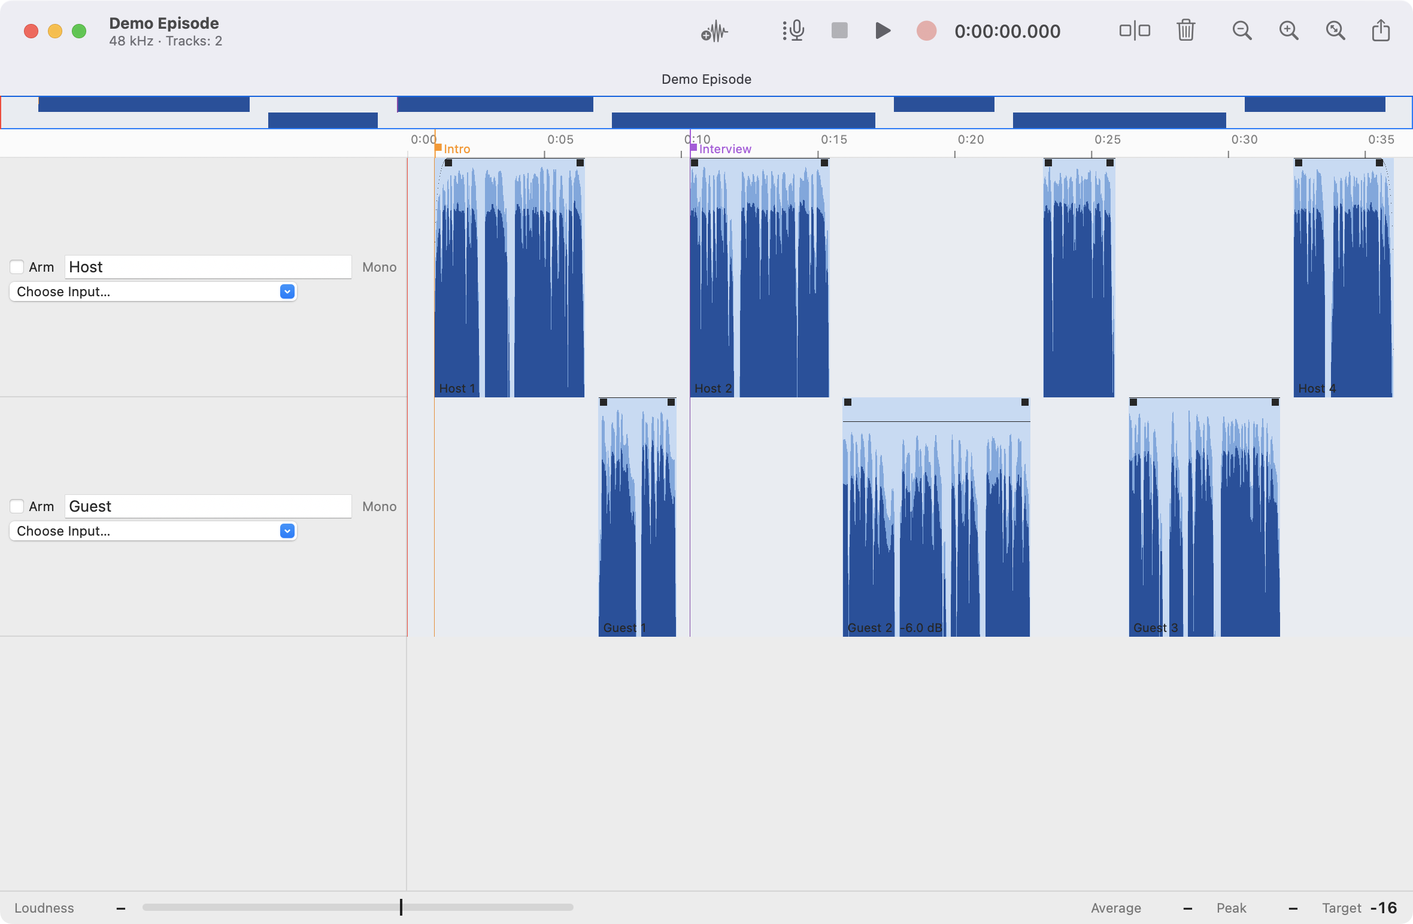
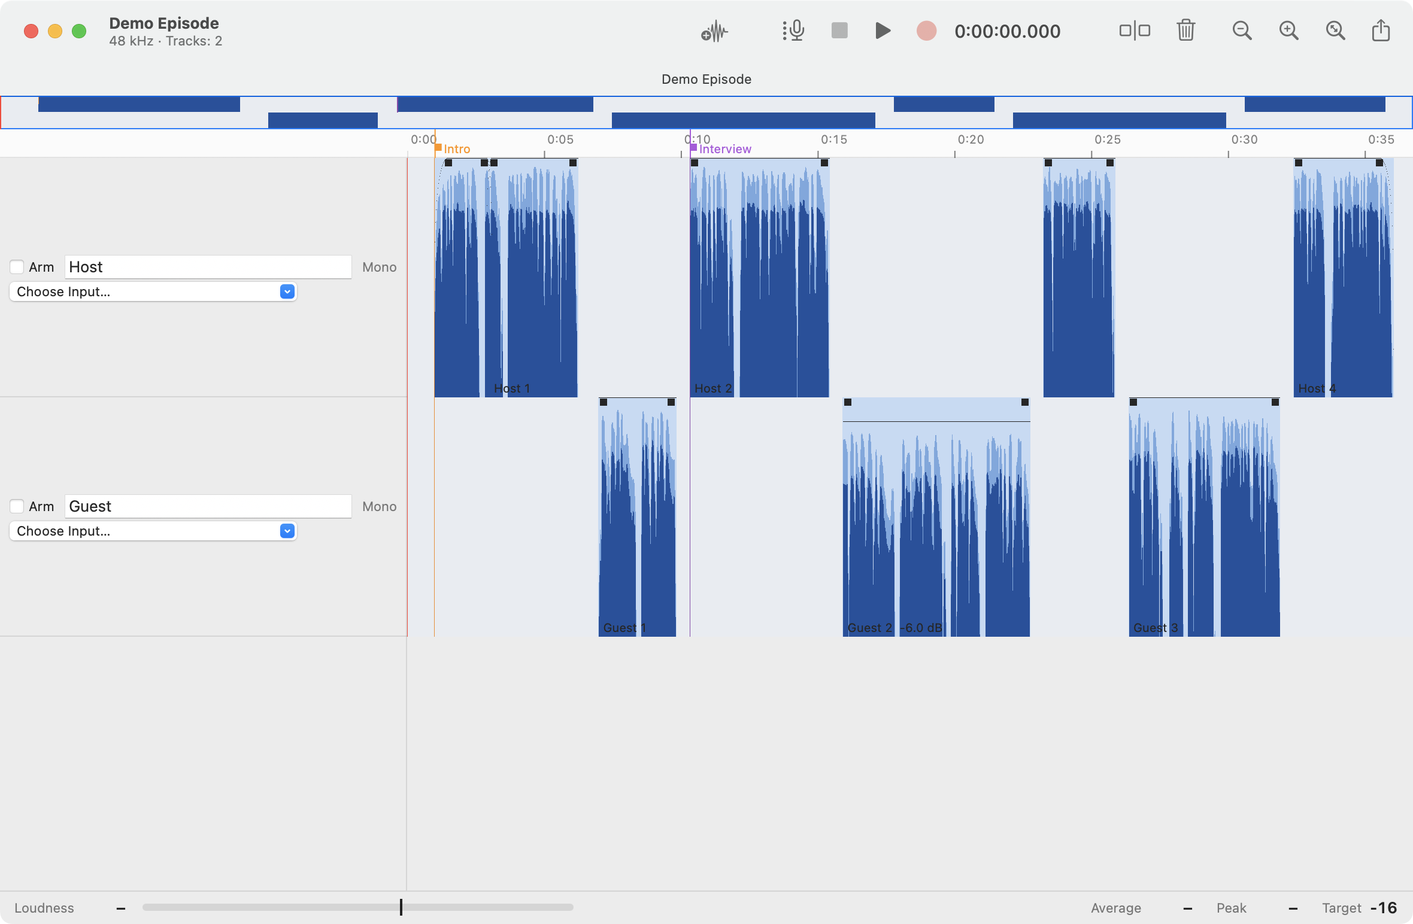
docs: describe crossfade editing and record what 11c-2 landed
The guide now tells how Command-F makes a crossfade at a join, how the
handles drag it, and how a double-click removes it. The README feature
list names the crossfade, and the "not yet" lines about crossfades go.

Decisions 0036, 0017, and 0020 say what 11c-2 landed: the drag is
relative to the press, the X lines draw in their own pass, and a join
takes only the room that the join before it leaves in a short clip.

The Demo Episode of screenshots.sh gets a cut in Host 1, closed with a
crossfade of 200 ms, and the script takes screenshot-crossfade.png at
the join. It zooms with the menu item, so the key layout does not
matter. The other three images are taken again.

Changed region(s): [[0.3403, 0.1554, 0.4331, 0.4352], [0.1547, 0.0933, 0.1856, 0.1244]]

diff --git a/docs/decisions/0036-crossfades.md b/docs/decisions/0036-crossfades.md
@@ -4,6 +4,7 @@
 - Date: 2026-10-04
 - Accepted: 2026-10-04, after plan gates 1 and 2 of run `2026-10-04-crossfades` (part 11c-1).
 - Amends: 0003 (crossfades from version 4), 0016 (the mix reads the sounding clip), 0017 (the waveform and the X line, 11c-2), 0020 (the crossfade handles, 11c-2; the fade handle stops at the room), 0024 (the `session.xml` version table), 0035 (the 11c plan, the fade stop rule).
+- Amended: 2026-10-04, run 11c-2 (`2026-10-04-crossfades-ui`): the handle drag is relative to the press, the X lines draw in their own pass, and a join takes only the room that the join before it leaves in a short clip.
 
 ## Context
 
@@ -21,7 +22,7 @@ Notation: clip A ends at the join J, and clip B starts at J. L is the crossfade 
   - a crossfade at a seamless join with `.crossfadeAtSeamlessJoin`;
   - a fade and a crossfade at one edge with `.fadeAtCrossfade`;
   - a short media handle with `.crossfadeOutsideFile(clip, needed: L/2)`.
-- **Media-handle limit.** `Session.check` refuses a clip with less than L/2 frames of file before its start crossfade (L/2 <= offset) or after its end crossfade (offset + length + L/2 <= file length), with `.crossfadeOutsideFile(clip, needed: L/2)`. It refuses a fade at an edge with a crossfade with `.fadeAtCrossfade`. There is no overlap and no ripple: `MixReader` cuts a short read with no error, which is an audible dip. `crossfadeLimit(after: A)` is 2 x min(handle after A, handle before B, room of A, room of B), rounded down to even. It is 0 at a seamless join, and nil when no clip touches the end of A or the file of A is not in the pool. Command-F and the handle drag of 11c-2 clamp to it.
+- **Media-handle limit.** `Session.check` refuses a clip with less than L/2 frames of file before its start crossfade (L/2 <= offset) or after its end crossfade (offset + length + L/2 <= file length), with `.crossfadeOutsideFile(clip, needed: L/2)`. It refuses a fade at an edge with a crossfade with `.fadeAtCrossfade`. There is no overlap and no ripple: `MixReader` cuts a short read with no error, which is an audible dip. `crossfadeLimit(after: index, in: lane)` is 2 x min(handle after A, handle before B, room of A, room of B), rounded down to even. It is 0 at a seamless join, and nil when no clip touches the end of A or the file of A is not in the pool. Command-F and the handle drag of 11c-2 clamp to it.
 - **Room.** The reach of an edge is its fade plus half its crossfade. `Clip.room(edge)` is the length minus the reach of the other edge, with no special case. `Session.check` refuses reach(start) + reach(end) over the length with `.fadeOutsideClip`. The fade handle, the inspector, and `Clip.fades(setting:to:)` clamp a fade to the room of its edge, and give no fade at an edge with a crossfade. A fade yields to a crossfade: `Clip.fitting` fits the fades into the length minus both crossfade halves. In `crossfadeLimit`, the room counts the crossfade half at the other edge and not its fade, because that fade yields.
 - **Set.** `Session.setCrossfades([ClipID: Frames])` takes the left clip of each join. L > 0 sets the crossfade on both clips, sets the fades at the two join edges to 0, and makes the fade at the other edge of each clip yield. L = 0 removes the crossfade from both clips and leaves the fades. A clip with no touching right neighbor throws `.crossfadeWithoutJoin`, also for L = 0. L > 0 at a seamless join throws `.crossfadeAtSeamlessJoin`. A length that `Crossfades` refuses throws `.frameOutOfRange`, and an unknown clip `.unknownClip`. It checks each changed clip, then writes all the changed clips of a lane before the repair reads their joins, so a crossfade of two clips is never half written. One pass and one undo entry; a throw changes nothing.
 - **Drop at a broken join.** An edit that breaks a join removes the crossfade from both clips. `ClipLane` keeps a crossfade only when its neighbor touches the edge, both lengths are equal, and the join is not seamless. `clear`, `split`, `overwrite`, and `remove(ids:)` end with a repair of the whole lane, because they cut or remove clips that can leave an orphan on a clip that the edit did not touch. `insert` repairs the joins next to each inserted clip, and `remove(at:)` repairs the join of its two new neighbors. This is complete because every mutator leaves the lane paired and every clip has a positive length. `replace(at: i)` repairs only the joins of clips i - 1 to i + 1: one clip changes and no clip moves, so `setFades`, `setGains`, and `setCrossfades` stay linear. A cut part (split, clear, overwrite, excerpt) keeps the crossfade of an edge of the clip that it keeps only when its half is not more than the room of that edge; the repair then drops the partner. A trim keeps the crossfade of each edge that does not move, and the fades yield to it. A paste, a move, and a nudge keep the crossfades; the repair drops each one whose join does not come with it. A move to the same track and start, and a nudge by 0, change nothing. `CrossfadeTests.randomEditsKeepTheSessionSavable` runs 500 seeded edit sequences, and each saved session reads back.
@@ -29,15 +30,14 @@ Notation: clip A ends at the join J, and clip B starts at J. L is the crossfade 
 - **CLI.** `dirigible clip crossfade <package> --clip <A> --length <frames>` calls `setCrossfades`; `--length 0` removes it. The parser refuses an odd or negative length with exit 64. `dirigible info` adds `crossfade in L` or `crossfade out L` to a clip line, and `info --json` gives `crossfadeIn` and `crossfadeOut` only when not 0. `crossfadeLimit` does not change a session, so it has no command.
 - **Errors.** The CLI gives each new case its own text. The window does not make an edit that throws one of the four cases, so the app shows the `errorSessionOther` text for each.
 - **Render.** `MixReader`, the one mix of the Player and the export, finds a clip by its sounding range and renders the sounding clip. A render from J + 1 includes the end of A. The media check of an export reads the files of the sounding clips too.
-- **11c-2, as planned: Command-F.** A range with in < J < out on a selected track makes a crossfade of L = 2 x min(J - in, out - J), centered on J, clamped to `crossfadeLimit`. A range that holds A and B whole (Select All) gives 20 ms (960 frames at 48 kHz), rounded to even. A range that only touches J keeps the 0035 rule (no fade at a butt join). A limit of 0 skips that join, and no change gives a beep. One Command-F sets the crossfades first, then the fades of 0035 fitted to the room, in one undo entry.
-- **11c-2, as planned: handles.** A crossfade shows two 8 x 8 pt handles, at J - L/2 in A and at J + L/2 in B. A drag of either handle sets L = 2 x the distance to J, clamped to `crossfadeLimit`; a drag to J removes it. A double-click on a handle removes it. The readout shows "Crossfade N ms". A join with no crossfade has no handle, so no drag makes a new crossfade. The drag is a new path of the 0020 budget, measured by its own bench.
-- **11c-2, as planned: draw.** The waveform of each clip takes its own half of the curve, so a 0 dBFS column at J is 3 dB under the top. The fade line of each clip continues over its handle into the neighbor box, in the controls pass after the waveforms, so the two lines cross at J as an X. The lane draw query and `changedFrames` use the sounding range. Until 11c-2 lands, the lanes do not draw a crossfade.
+- **11c-2: Command-F.** A range with in < J < out on a selected track makes a crossfade of L = 2 x min(J - in, out - J), centered on J, clamped to `crossfadeLimit`. A join also clamps to the room that the join before it leaves in the clip between them: the first join at a short clip takes the room, so the two new halves never pass the clip length. A range that holds A and B whole (Select All) gives 20 ms (960 frames at 48 kHz), rounded to even. A range that only touches J keeps the 0035 rule (no fade at a butt join). A limit of 0 skips that join, and no change gives a beep. One Command-F sets the crossfades first, then the fades of 0035 fitted to the room, in one undo entry.
+- **11c-2: handles.** A crossfade shows two 8 x 8 pt handles, at J - L/2 in A and at J + L/2 in B, kept inside each box. A drag is relative to the press: a drag away from J adds 2 x its frames, and a drag toward J takes them off, clamped to 0 and to `crossfadeLimit` at the press; a drag to J removes it. A double-click on a handle removes it. The readout shows "Crossfade N ms". A join with no crossfade has no handle, so no drag makes a new crossfade. The drag is a new path of the 0020 budget, measured by its own bench.
+- **11c-2: draw.** The waveform of each clip takes its own half of the curve inside its own box, so a 0 dBFS column at J is 3 dB under the top. The fade line of each clip continues over its handle into the neighbor box, in its own pass after the waveforms, in boxes of 12 pt or more, so the two lines cross at J as an X. That pass and `changedFrames` use the sounding range. The gain line and the gain band stop at the crossfade half, and a trim stops at half of the crossfade at the other edge.
 
 ## Consequences
 
 - A build that reads version 3 or lower refuses a session with a crossfade. A session with no crossfade keeps its version 1, 2, or 3 text.
 - A clip edit can remove a crossfade with no message. Undo restores it.
-- Until 11c-2 lands, only `dirigible clip crossfade` makes a crossfade, and the lanes do not show it.
 - An asymmetric crossfade, a moved pivot, or another curve needs a new attribute and a version bump.
 
 ## Alternatives considered

diff --git a/docs/decisions/0017-timeline-view.md b/docs/decisions/0017-timeline-view.md
@@ -14,7 +14,7 @@
 - Amended: 2026-09-28, timeline-navigation run (see 0025): H is "Zoom to Selection or Session": with no selection it zooms to the session, and a second H with the view unchanged goes back. The zoom history and the lane height are window state and are not saved. Command-= also zooms in. New View keys: Zoom Back and Zoom Forward (Option-Command-Left and -Right), Previous Page and Next Page (Option-Page Up and Option-Page Down), Taller Tracks and Shorter Tracks (Command-Down and Command-Up Arrow), and Fit Tracks to Window (no key).
 - Amended: 2026-09-29, record-over-gap run: the record-over overlay reads only the first clip of each armed track that ends after the playhead, not only a clip under the playhead. With the playhead in a gap, a take replaced a clip out of view with no warning.
 - Amended: 2026-10-03, run 11a. The waveform has the fades of 0035, and a fade line in clip boxes of 12 pt or more wide.
-- Amended: 2026-10-04, run 11c-1. Planned for 11c-2: the waveform takes the fades of the sounding clip, and the fade lines of a crossfade cross at the join as an X (see 0036). Until then the lanes do not draw a crossfade.
+- Amended: 2026-10-04, runs 11c-1 and 11c-2: the waveform takes the fades of the sounding clip inside its box, and the fade lines of a crossfade cross at the join as an X, drawn in their own pass after the waveforms (see 0036).
 
 ## Context
 
@@ -30,7 +30,7 @@ Probes on 2026-09-25 (MacBook Pro 2018, Intel i5-8259U, Iris Plus 655, macOS 15.
 
 **Drawing.** The lanes are an `NSScrollView` in the SwiftUI window. Its document view is flipped and layer-backed, as wide as the session at the zoom, and draws only its dirty rect. It writes BGRA pixels into a buffer (a background pattern, then column spans for the peak and the RMS), then draws one image over the buffer, with no copy. The context of the draw is a display list (macOS 15.7.9): it draws the image later, and again after a scroll. So the data provider of the image holds the buffer, and a draw uses a buffer again only when no image holds it. A reused buffer showed the pixels of a later draw after a page turn, and a buffer of another size was freed under its image. The layer keeps the image of each region until a later draw covers it or the region needs display again. A scroll marks the lanes more than one view away in a later job of the main queue: no draw, and their images go (4 live images or less after each of 8 page turns, `pageTurnsKeepAFewImagesAlive`). A mark next to the view made the layer draw all lanes in view. A partial draw (an edit or a drag event) also draws the partial draws before it, so it covers the image of the last one: a clip drag kept one image per event. When that union is more than a quarter of the lanes in view larger than the new rect, one full draw frees every image (4 live images or less over 60 drag events, `aClipDragKeepsAFewImagesAlive`). The playhead is a `CALayer` that the `NSView.displayLink` tick moves; the tick reads the playhead outside SwiftUI. The ruler is an `NSRulerView`. The track headers are SwiftUI rows in the vertical ruler of the scroll view, and they share the lane height. Lanes that do not fit the window scroll vertically. The top of the clip view places the headers, so each header stays beside its lane, and a wheel over the headers scrolls the lanes. The clip view goes under both rulers, so the lanes in view are the clip bounds minus its content insets. A page turn and a zoom keep the vertical origin. The document view and the ruler each keep an `Equatable` value of their drawn inputs (the session, the peaks, the missing media, the selection, the zoom, the lane height). They redraw only when that value changes or the backing scale changes. The playhead is not a drawn input. `Studio.missingMedia` is a stored property of its own, not a field of the playback state, so the 33 ms playhead poll does not update the view.
 
-**Waveform.** Rectified, -60 dB to 0 dB, light peaks over dark RMS, with clip gain plus track gain and the fades of 0035 (from 11c-2, of the sounding clip, 0036). A stereo track draws the maximum of both channels. A missing or short clip draws red. The red comes only from `Studio.missingMedia`.
+**Waveform.** Rectified, -60 dB to 0 dB, light peaks over dark RMS, with clip gain plus track gain and the fades of 0035 (of the sounding clip, 0036). A stereo track draws the maximum of both channels. A missing or short clip draws red. The red comes only from `Studio.missingMedia`.
 
 **Peaks.** Three levels of 256, 4096, and 65536 frames per bin, a UInt16 peak and a UInt16 RMS per bin. `Studio` computes them off the main actor, one file at a time, and pauses before each block of 262,144 frames while a take starts, records, or finalizes. After a pause, the file starts again with a new `stat`. The pass opens each WAV with `openMedia`, as the Player and the media check do, and merges its faults into `missingMedia`. `openMedia` also gives the stamp of the descriptor that it opened. A read error gives `.unreadable` in `missingMedia`. Studio starts a pass at the open, after a finalize, and after an edit, an undo, or a redo that changes the pool files. The window starts one at focus, because a WAV can change outside the app. The views read only `Studio.peaks`.
 

diff --git a/docs/guide.md b/docs/guide.md
@@ -13,7 +13,6 @@ This guide shows how to record, edit, and export a podcast episode with Dirigibl
 
 - The export does not write the chapters into the file. The chapters stay in the session.
 - Safari and FaceTime cannot be a track source: they play their audio from system processes outside the app.
-- The window cannot make or show a crossfade. Only the `dirigible` tool can make one: see [The dirigible tool](#the-dirigible-tool).
 - Delete leaves silence. The clips after the deleted part do not move to close the gap. To close the gap, see [Remove a mistake and close the gap](#remove-a-mistake-and-close-the-gap).
 
 ## Record your first episode
@@ -204,9 +203,14 @@ Choose **Edit > Fade** (Command-F) to fade the clips on the selected tracks. The
 - A selection that holds the start of a clip gives a fade-in from the clip start to the out point.
 - A selection that holds the end of a clip gives a fade-out from the in point to the clip end.
 - A selection inside a clip does nothing.
-- Where two clips touch, the edges get no fade.
+- Where two clips touch, the edges get no fade. A selection that starts before the join and ends after it gives a crossfade: the first clip fades out while the second clip fades in. The crossfade is centered on the join and is twice as long as the shorter part of the selection on each side of the join. When the selection holds both clips whole, the crossfade is 20 ms.
+- A selection that only ends or starts at the join gives no crossfade.
 
-A new fade replaces the old fade of that edge. When the two fades are longer than the clip, the other fade becomes shorter. The waveform shows the fade, and on a clip that is 12 pt wide or more on screen, a line marks the fade shape. With no fade to change, you hear a beep. Each Fade is one step in the undo history.
+![A crossfade of 200 ms at a join in the Host track: the fade lines of the two clips cross at the join as an X, with a handle at each end.](images/screenshot-crossfade.png)
+
+A crossfade needs audio in each file past the join, for half its length. Dirigible makes the crossfade as long as that audio and the clips allow. Where a short clip is between two joins, the first join gets the room in that clip. Two parts of a split clip that continue the same audio get no crossfade.
+
+A new fade replaces the old fade of that edge. When the two fades are longer than the clip, the other fade becomes shorter. The waveform shows the fade, and on a clip that is 12 pt wide or more on screen, a line marks the fade shape. The two lines of a crossfade cross at the join as an X. With no fade or crossfade to change, you hear a beep. Each Fade is one step in the undo history.
 
 ### Change the gain and the fades with the mouse
 
@@ -214,15 +218,16 @@ On a clip that is 40 pt wide or more on screen, a line shows the clip gain, and 
 
 - Drag the line up or down to change the gain of that clip, in steps of 0.1 dB. A drag goes to +20 dB or -20 dB, or stops at the start value when that value is outside these limits.
 - Drag a fade handle to make the fade longer or shorter. The handle stops at the other fade.
-- Double-click the line to set the gain to 0 dB. Double-click a handle to remove that fade.
-- During a drag, a label next to the pointer shows the gain in dB or the fade length in ms.
+- A crossfade has a handle at each end of its X. Drag a handle away from the join to make the crossfade longer on both sides, or toward the join to make it shorter. A drag onto the join removes the crossfade. The handle stops where the audio or the clip ends.
+- Double-click the line to set the gain to 0 dB. Double-click a handle to remove that fade or crossfade.
+- During a drag, a label next to the pointer shows the gain in dB, or the fade or crossfade length in ms.
 - Press Esc during a drag to cancel it.
 
-Each drag and each double-click is one step in the undo history. Where two clips touch with no fade, the edges have no handle.
+Each drag and each double-click is one step in the undo history. Where two clips touch with no fade and no crossfade, the edges have no handle: press Command-F on a selection across the join to make a crossfade.
 
 ### Type the gain and the fades in the inspector
 
-![The inspector at the right of the window, for two clips: Gain 0.0 dB, Fade In Mixed, and Fade Out 0 ms.](images/screenshot-inspector.png)
+![The inspector at the right of the window, for three clips: Gain 0.0 dB, Fade In Mixed, and Fade Out 0 ms.](images/screenshot-inspector.png)
 
 Choose **View > Show Inspector** (Option-Command-I) to show the inspector at the right of the window. It shows the Gain in dB, and the Fade In and Fade Out in ms, of each clip that the selection touches. With one clip, the top line shows the clip name. With more clips, it shows the clip count, and a field with different values shows "Mixed".
 

diff --git a/docs/decisions/0020-timeline-gesture-model.md b/docs/decisions/0020-timeline-gesture-model.md
@@ -5,8 +5,8 @@
 - Accepted: 2026-09-26, after plan gates 1 and 2 of the mouse-edits run. The gates added the 12 pt floor of the move zone, the lane change after half a lane, the name commit at the mouse-down, the order apply, source, draw at the mouse-up, the one geometry for the drawing and the hit test, and the Studio read only at the down and after the up.
 - Amended: 2026-09-26, code gate 1 of the mouse-edits run: the drag threshold of the time, `changedFrames` and the dirty rect with the rows of a wide change, the width during a gesture, and the event paths of the budget.
 - Amended: 2026-09-27, timeline-layer run (see 0022): a drag event renders only its changed rect, with no union of the draws before it. The acceptance of 0022 compares every case of `MouseEventBenchmark`, `FollowScrollBenchmark`, and `LaneRenderBenchmark` with main. The budget is unchanged.
-- Amended: 2026-10-03, run 11b-1 (see 0035): in a clip box of 40 pt or more, the zones in hit order are an 8 x 8 pt fade handle at each fade end (none at a butt join with no fade and no crossfade; 11c-2 adds the two crossfade handles of 0036), the 4 pt trim, the gain band (the gain line plus or minus 3 pt, between the fades), the move zone, and the range zone. A gain drag sets the gain of that clip at 60 dB per lane height, in 0.1 dB steps, from min(start, -20 dB) to max(start, +20 dB). A handle drag stops at the other fade. A double-click on the band gives 0 dB, and on a handle removes that fade. Each is one undo entry. `changedFrames` also redraws an unchanged lane neighbor when its join to a changed clip comes or goes at an edge with no fade, because only then does its handle change. The budget adds a gain drag and a fade-handle drag (`MouseEventGainBenchmark`).
-- Amended: 2026-10-04, run 11c-1 (see 0036): a fade-handle drag stops at the room of its edge, that is the other fade or half the crossfade at the other edge. An edge with a crossfade has no fade handle. Planned for 11c-2: the crossfade handle drag is a new path of the budget with its own bench.
+- Amended: 2026-10-03, run 11b-1 (see 0035): in a clip box of 40 pt or more, the zones in hit order are an 8 x 8 pt fade handle at each fade end (none at a butt join with no fade and no crossfade; the two crossfade handles of 0036 from 11c-2), the 4 pt trim, the gain band (the gain line plus or minus 3 pt, between the fades), the move zone, and the range zone. A gain drag sets the gain of that clip at 60 dB per lane height, in 0.1 dB steps, from min(start, -20 dB) to max(start, +20 dB). A handle drag stops at the other fade. A double-click on the band gives 0 dB, and on a handle removes that fade. Each is one undo entry. `changedFrames` also redraws an unchanged lane neighbor when its join to a changed clip comes or goes at an edge with no fade, because only then does its handle change. The budget adds a gain drag and a fade-handle drag (`MouseEventGainBenchmark`).
+- Amended: 2026-10-04, run 11c-1 (see 0036): a fade-handle drag stops at the room of its edge, that is the other fade or half the crossfade at the other edge. An edge with a crossfade has no fade handle. Run 11c-2: the handle of an edge with a crossfade drags the crossfade, relative to the press, a new path of the budget with its own bench (`MouseEventCrossfadeBenchmark`).
 - Amended: 2026-09-28, timeline-navigation run (see 0025): during a lane or ruler drag, the display tick scrolls the lanes when the pointer is past the lanes edge, and it sends the drag again at the same point. The scroll stops at the held width of the lanes. A lane gesture also holds the scale: a zoom input during it does nothing, so the mapping from points to frames stays until the mouse-up.
 
 ## Context

diff --git a/README.md b/README.md
@@ -17,14 +17,14 @@ Dirigible is a podcast recorder and editor for macOS. It records several microph
 - Record the sound of another app, for example a call, on its own track (macOS 14.2 or later).
 - Keep the recorded audio after a crash, an unplug, or a full disk.
 - Edit with the keyboard or the mouse: cut, copy, paste, delete, split, nudge, move, and trim. Each edit is one undo step.
-- Drag the gain line and the fade handles of a clip, press Command-F for a fade, or type the values in the inspector. Auto Level sets each clip to -16 LUFS (stereo) or -19 LUFS (mono), also after each take.
+- Drag the gain line and the fade handles of a clip, press Command-F for a fade or for a crossfade where two clips touch, or type the values in the inspector. Auto Level sets each clip to -16 LUFS (stereo) or -19 LUFS (mono), also after each take.
 - Read the loudness of the mix in the meter below the tracks while you play.
 - Play forward and backward with the J, K, and L keys, at slow and fast speeds.
 - Find your way in a long session with the Session overview, zoom to the selection, and a zoom history.
 - Add markers and chapters in the time ruler.
 - Export WAV, AAC (.m4a), MP3, or FLAC, in mono or stereo, at 44.1 kHz or 48 kHz, at a loudness target such as -16 LUFS for a podcast, with the true peak at or under -1 dBTP.
 
-Dirigible does not yet write chapters into the export or make crossfades in the window. Delete leaves silence. See [What Dirigible does not do yet](docs/guide.md#what-dirigible-does-not-do-yet).
+Dirigible does not yet write chapters into the export. Delete leaves silence. See [What Dirigible does not do yet](docs/guide.md#what-dirigible-does-not-do-yet).
 
 ## Install
 
